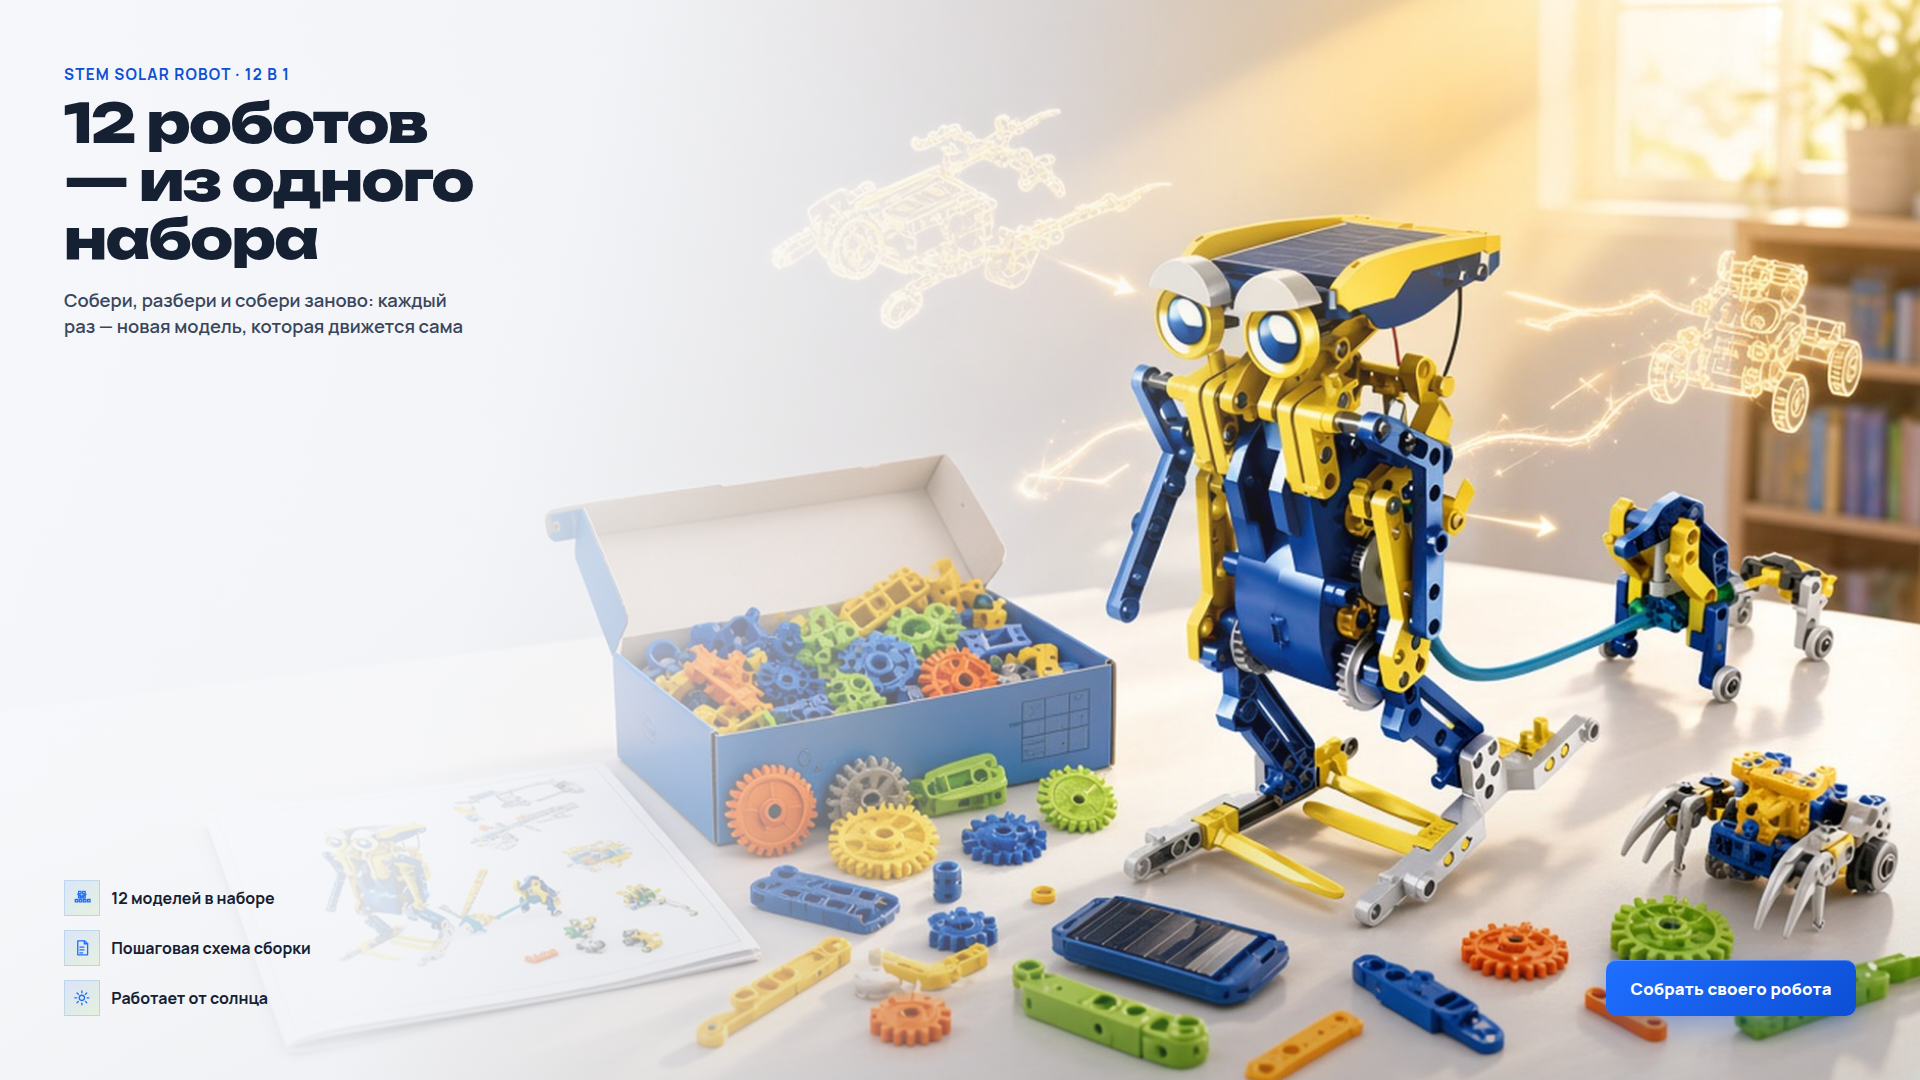
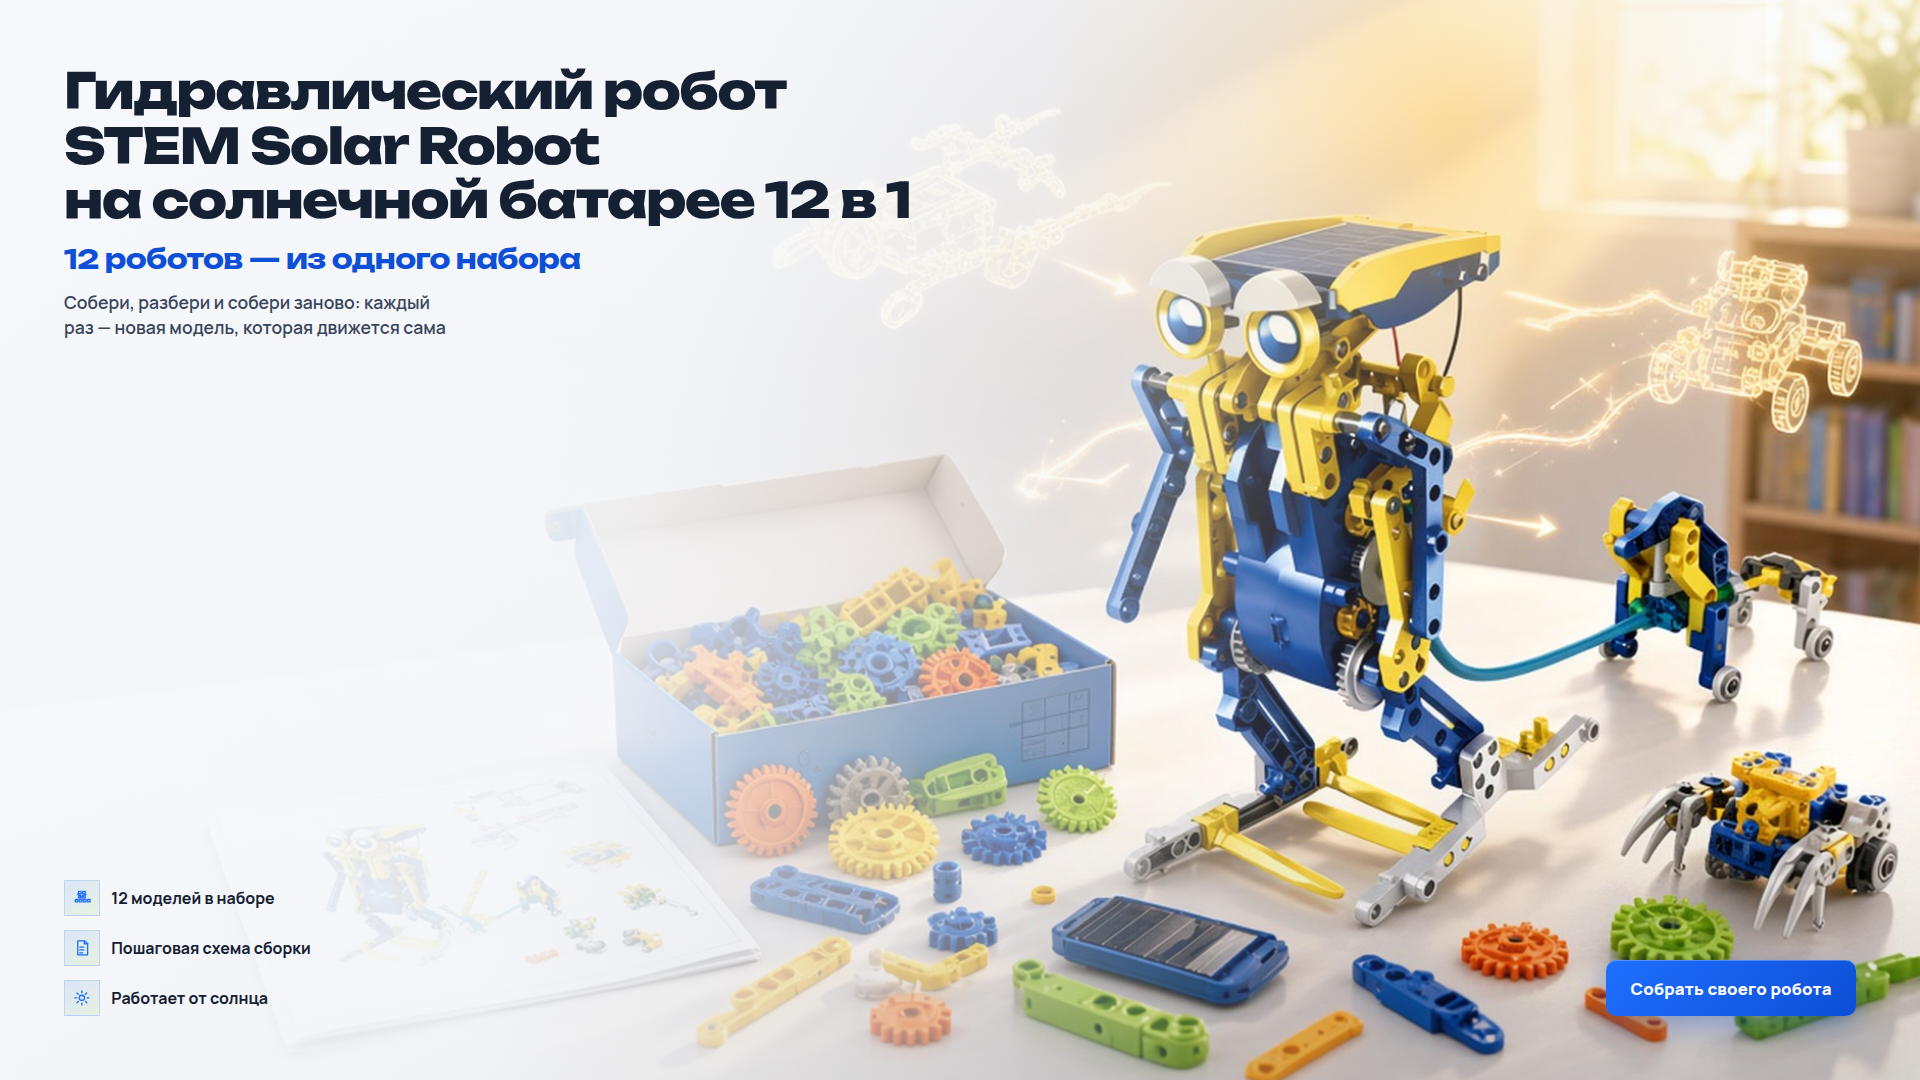
Enlarge product name as top headline on sell card
Use «Гидравлический робот STEM Solar Robot на солнечной батарее 12 в 1»
as the primary title and keep the 12-in-1 line as a lead.

diff --git a/landing/styles.css b/landing/styles.css
@@ -70,11 +70,16 @@ body {
   background:
     linear-gradient(
       105deg,
-      rgba(247, 249, 252, 0.96) 0%,
-      rgba(247, 249, 252, 0.88) 28%,
-      rgba(247, 249, 252, 0.42) 48%,
-      rgba(247, 249, 252, 0.08) 62%,
-      transparent 72%
+      rgba(247, 249, 252, 0.97) 0%,
+      rgba(247, 249, 252, 0.9) 34%,
+      rgba(247, 249, 252, 0.48) 54%,
+      rgba(247, 249, 252, 0.1) 68%,
+      transparent 78%
+    ),
+    linear-gradient(
+      to bottom,
+      rgba(247, 249, 252, 0.55) 0%,
+      transparent 32%
     ),
     linear-gradient(
       to top,
@@ -111,45 +116,46 @@ body {
 }
 
 .card__copy {
-  max-width: min(52%, 560px);
-}
-
-.card__eyebrow {
-  margin: 0 0 0.65em;
-  font-family: "Manrope", sans-serif;
-  font-size: clamp(0.7rem, 1.15vw, 0.95rem);
-  font-weight: 700;
-  letter-spacing: 0.08em;
-  text-transform: uppercase;
-  color: var(--electric-deep);
-  opacity: 0;
-  animation: riseIn 0.7s ease 0.1s forwards;
+  max-width: min(78%, 920px);
 }
 
 .card__title {
   margin: 0;
-  max-width: 11ch;
+  max-width: 22ch;
   font-family: "Unbounded", sans-serif;
   font-weight: 800;
-  font-size: clamp(1.55rem, 3.6vw, 3.35rem);
-  line-height: 1.08;
+  font-size: clamp(1.45rem, 3.35vw, 3.05rem);
+  line-height: 1.12;
   letter-spacing: -0.03em;
   color: var(--ink);
   text-wrap: balance;
   opacity: 0;
-  animation: riseIn 0.8s ease 0.2s forwards;
+  animation: riseIn 0.8s ease 0.15s forwards;
+}
+
+.card__lead {
+  margin: clamp(10px, 1.3vw, 16px) 0 0;
+  max-width: 22ch;
+  font-family: "Unbounded", sans-serif;
+  font-weight: 700;
+  font-size: clamp(1.05rem, 1.85vw, 1.65rem);
+  line-height: 1.2;
+  letter-spacing: -0.02em;
+  color: var(--electric-deep);
+  opacity: 0;
+  animation: riseIn 0.75s ease 0.28s forwards;
 }
 
 .card__subtitle {
-  margin: clamp(10px, 1.4vw, 18px) 0 0;
-  max-width: 34ch;
-  font-size: clamp(0.85rem, 1.35vw, 1.15rem);
+  margin: clamp(8px, 1.1vw, 14px) 0 0;
+  max-width: 36ch;
+  font-size: clamp(0.85rem, 1.3vw, 1.1rem);
   font-weight: 600;
   line-height: 1.45;
   color: var(--ink-soft);
   text-wrap: pretty;
   opacity: 0;
-  animation: riseIn 0.8s ease 0.35s forwards;
+  animation: riseIn 0.8s ease 0.4s forwards;
 }
 
 .card__footer {
@@ -303,8 +309,12 @@ body {
     );
   }
 
+  .card__copy {
+    max-width: 100%;
+  }
+
   .card__title {
-    max-width: 14ch;
+    max-width: 18ch;
   }
 
   .card__footer {
@@ -325,8 +335,8 @@ body {
 @media (prefers-reduced-motion: reduce) {
   .card__photo,
   .card__sun,
-  .card__eyebrow,
   .card__title,
+  .card__lead,
   .card__subtitle,
   .card__features,
   .card__cta {

diff --git a/landing/index.html b/landing/index.html
@@ -3,7 +3,7 @@
 <head>
   <meta charset="UTF-8" />
   <meta name="viewport" content="width=device-width, initial-scale=1" />
-  <title>STEM Solar Robot 12 в 1 — продающая карточка</title>
+  <title>Гидравлический робот STEM Solar Robot на солнечной батарее 12 в 1</title>
   <link rel="preconnect" href="https://fonts.googleapis.com" />
   <link rel="preconnect" href="https://fonts.gstatic.com" crossorigin />
   <link href="https://fonts.googleapis.com/css2?family=Manrope:wght@500;600;700;800&family=Unbounded:wght@600;700;800&display=swap" rel="stylesheet" />
@@ -25,8 +25,10 @@
 
       <div class="card__content">
         <header class="card__copy">
-          <p class="card__eyebrow">STEM Solar Robot · 12 в 1</p>
-          <h1 class="card__title">12 роботов — из&nbsp;одного набора</h1>
+          <h1 class="card__title">
+            Гидравлический робот STEM Solar Robot на&nbsp;солнечной батарее 12&nbsp;в&nbsp;1
+          </h1>
+          <p class="card__lead">12 роботов — из&nbsp;одного набора</p>
           <p class="card__subtitle">
             Собери, разбери и&nbsp;собери заново: каждый раз&nbsp;— новая модель,
             которая движется сама

diff --git a/landing/capture.html b/landing/capture.html
@@ -34,8 +34,8 @@
     /* Freeze motion for a clean still export */
     .card__photo,
     .card__sun,
-    .card__eyebrow,
     .card__title,
+    .card__lead,
     .card__subtitle,
     .card__features,
     .card__cta {
@@ -62,8 +62,10 @@
       <div class="card__sun" aria-hidden="true"></div>
       <div class="card__content">
         <header class="card__copy">
-          <p class="card__eyebrow">STEM Solar Robot · 12 в 1</p>
-          <h1 class="card__title">12 роботов — из&nbsp;одного набора</h1>
+          <h1 class="card__title">
+            Гидравлический робот STEM Solar Robot на&nbsp;солнечной батарее 12&nbsp;в&nbsp;1
+          </h1>
+          <p class="card__lead">12 роботов — из&nbsp;одного набора</p>
           <p class="card__subtitle">
             Собери, разбери и&nbsp;собери заново: каждый раз&nbsp;— новая модель,
             которая движется сама

diff --git a/README.md b/README.md
@@ -23,7 +23,8 @@ python3 -m http.server 8765
 
 ## Тексты на карточке
 
-- **Заголовок:** 12 роботов — из одного набора
+- **Название (крупно сверху):** Гидравлический робот STEM Solar Robot на солнечной батарее 12 в 1
+- **Лид:** 12 роботов — из одного набора
 - **Подзаголовок:** Собери, разбери и собери заново: каждый раз — новая модель, которая движется сама
 - **Иконки:** 12 моделей в наборе · Пошаговая схема сборки · Работает от солнца
 - **CTA:** Собрать своего робота
